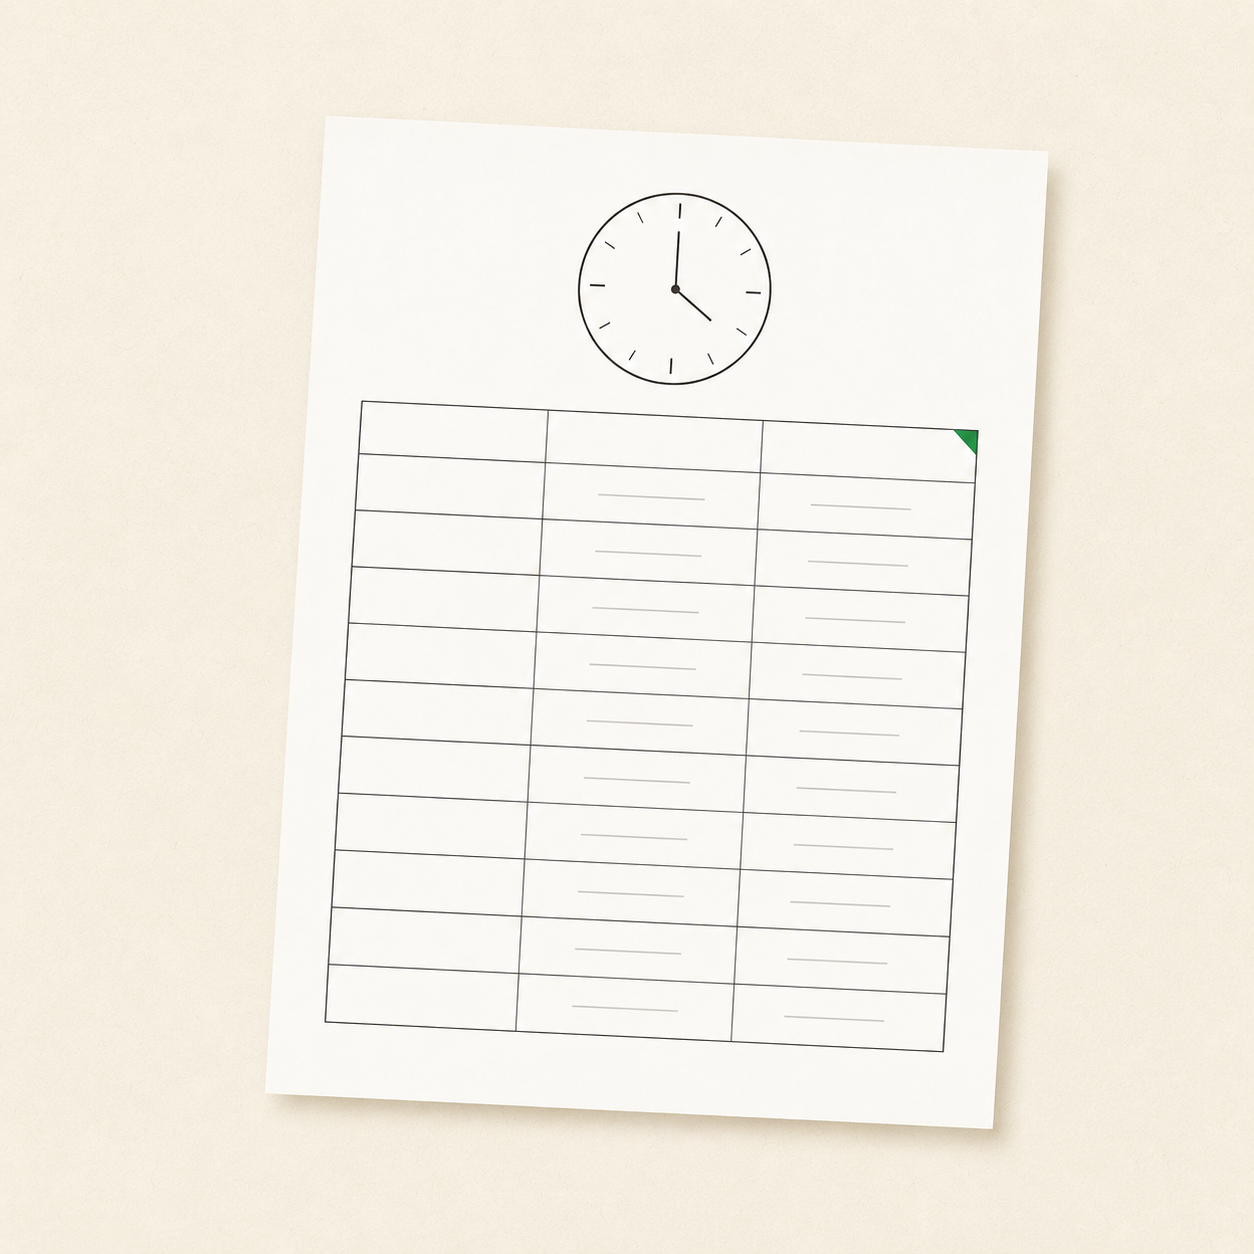
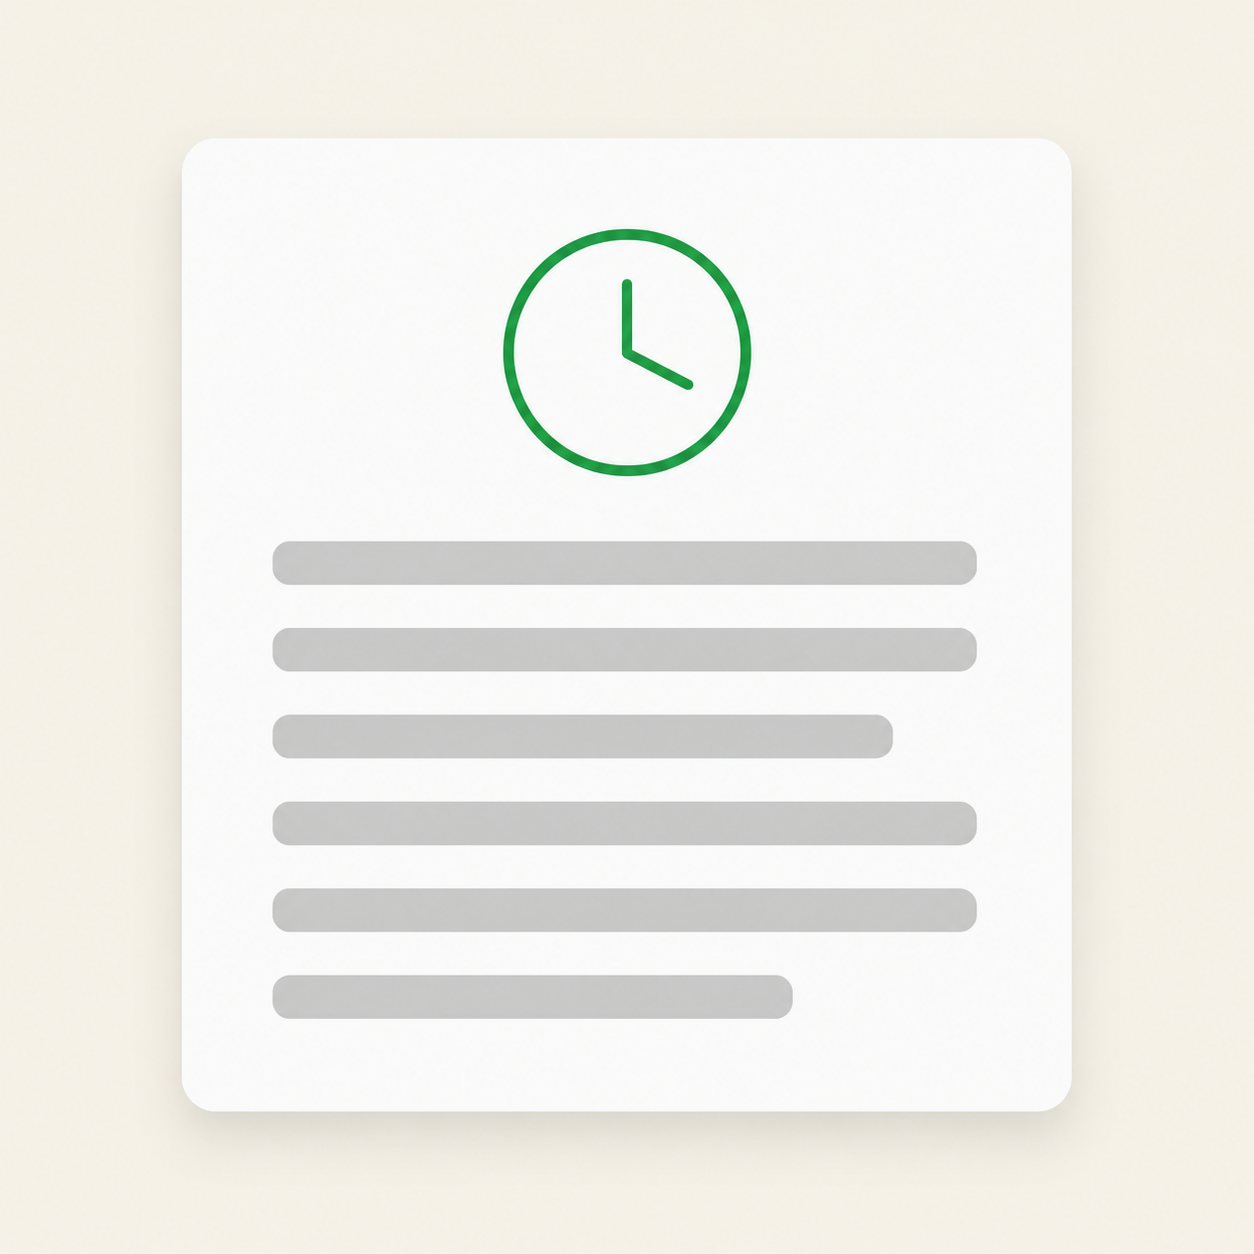
koefarm: 法人LP S1「4枚の書類」をSVGからChatGPT生成イラストへ差し替え
ダサいSVG罫線イラストを、モダン・フラットUIの4枚（クリップボード/時計/円グラフ/帳簿）に置換。
地色がブレるChatGPT生成画像を厳密に揃える正規化スクリプトを追加。

Changed region(s): [[0.1244, 0.0933, 0.8708, 0.933], [0.7464, 0.3421, 0.7775, 0.3732], [0.2799, 0.3421, 0.311, 0.3732]]

diff --git a/src/app/koefarm/business/BusinessLP.tsx b/src/app/koefarm/business/BusinessLP.tsx
@@ -107,57 +107,16 @@ const WORKER_BANDS: { value: WorkersBand; label: string }[] = [
 
 const EMAIL_RE = /^[^\s@]+@[^\s@]+\.[^\s@]+$/;
 
-/* ── SVG：紙ごとの罫線（pathLength=1 で描画量を正規化）── */
-function DocReport() {
-  return (
-    <svg className="kfb-paper-svg" viewBox="0 0 60 80" aria-hidden="true">
-      <line className="kfb-draw" x1="8" y1="26" x2="52" y2="26" pathLength={1} />
-      <line className="kfb-draw" x1="8" y1="38" x2="52" y2="38" pathLength={1} />
-      <line className="kfb-draw" x1="8" y1="50" x2="52" y2="50" pathLength={1} />
-      <line className="kfb-draw" x1="8" y1="62" x2="52" y2="62" pathLength={1} />
-      <line className="kfb-draw" x1="30" y1="26" x2="30" y2="62" pathLength={1} />
-    </svg>
-  );
-}
-function DocAttendance() {
-  return (
-    <svg className="kfb-paper-svg" viewBox="0 0 60 80" aria-hidden="true">
-      <circle className="kfb-draw" cx="30" cy="46" r="18" pathLength={1} />
-      <line className="kfb-draw" x1="30" y1="30" x2="30" y2="34" pathLength={1} />
-      <line className="kfb-draw" x1="30" y1="58" x2="30" y2="62" pathLength={1} />
-      <line className="kfb-draw" x1="14" y1="46" x2="18" y2="46" pathLength={1} />
-      <line className="kfb-draw" x1="42" y1="46" x2="46" y2="46" pathLength={1} />
-      <line className="kfb-draw kfb-draw-green" x1="30" y1="46" x2="30" y2="35" pathLength={1} />
-      <line className="kfb-draw kfb-draw-green" x1="30" y1="46" x2="40" y2="50" pathLength={1} />
-    </svg>
-  );
-}
-function DocLabor() {
-  return (
-    <svg className="kfb-paper-svg" viewBox="0 0 60 80" aria-hidden="true">
-      <circle className="kfb-draw" cx="30" cy="44" r="16" pathLength={1} />
-      <path className="kfb-draw kfb-draw-green" d="M30 44 L30 28 A16 16 0 0 1 44.8 37.9 Z" pathLength={1} />
-      <line className="kfb-draw" x1="10" y1="74" x2="50" y2="74" pathLength={1} />
-    </svg>
-  );
-}
-function DocLedger() {
-  return (
-    <svg className="kfb-paper-svg" viewBox="0 0 60 80" aria-hidden="true">
-      <line className="kfb-draw" x1="10" y1="30" x2="50" y2="30" pathLength={1} />
-      <line className="kfb-draw" x1="30" y1="30" x2="30" y2="66" pathLength={1} />
-      <line className="kfb-draw" x1="14" y1="42" x2="26" y2="42" pathLength={1} />
-      <line className="kfb-draw" x1="34" y1="42" x2="46" y2="42" pathLength={1} />
-      <line className="kfb-draw" x1="14" y1="52" x2="26" y2="52" pathLength={1} />
-    </svg>
-  );
-}
-
+/* ── 紙の絵（ChatGPT生成のフラットUIイラスト・文字は焼き込まず下のトークンで重ねる）──
+   素材と再生成手順は public/koefarm/business/README.md。
+   画像は正方形・背景が --kf-paper(#f5f1e8) と同色なので、地に溶けてカードだけが見える。
+   token の x/y は「カード内1本目のグレーバー」の左端・中心に合わせた画像座標
+   （実測: バー1は x 21.8%〜77.8%、y 43.2%〜46.6%）。CSS 側で translateY(-50%) している。 */
 const PAPERS = [
-  { tag: '1｜作業日報', Doc: DocReport, token: { text: 'トマト', x: '16%', y: '40%' } },
-  { tag: '2｜勤怠', Doc: DocAttendance, token: { text: '3時間', x: '14%', y: '20%' } },
-  { tag: '3｜労務費', Doc: DocLabor, token: { text: 'Aハウス', x: '10%', y: '79%' } },
-  { tag: '4｜仕訳', Doc: DocLedger, token: null },
+  { tag: '1｜作業日報', src: '/koefarm/business/doc-report.png', token: { text: 'トマト', x: '21.8%', y: '44.9%' } },
+  { tag: '2｜勤怠', src: '/koefarm/business/doc-attendance.png', token: { text: '3時間', x: '21.8%', y: '44.9%' } },
+  { tag: '3｜労務費', src: '/koefarm/business/doc-labor.png', token: { text: 'Aハウス', x: '21.8%', y: '44.9%' } },
+  { tag: '4｜仕訳', src: '/koefarm/business/doc-ledger.png', token: null },
 ];
 
 export default function BusinessLP() {
@@ -269,13 +228,6 @@ export default function BusinessLP() {
               { autoAlpha: 0, scale: 0.6, yPercent: 26, duration: 0.2 },
               at
             );
-            // 各紙の罫線が「書かれる」
-            const draws = card.querySelectorAll<SVGElement>('.kfb-draw');
-            tl.from(
-              draws,
-              { strokeDashoffset: 1, duration: 0.16, stagger: 0.015 },
-              at + 0.08
-            );
           });
 
           // 接続線が bubble から各紙へ引かれる
@@ -288,8 +240,9 @@ export default function BusinessLP() {
           // 発話の語が点る（同じ語が複数の紙へ）
           tl.to('.kfb-s1-bubble .kfb-tok', { className: 'kfb-tok kfb-tok-on', duration: 0.1, stagger: 0.08 }, 0.2);
 
-          // 各紙に語が入る
-          tl.from('.kfb-token', { autoAlpha: 0, y: 4, duration: 0.14, stagger: 0.08 }, 0.4);
+          // 各紙に語が入る（.kfb-token は CSS の translateY(-50%) で行に乗せているので
+          // gsap 側で y を動かさない。動かすと gsap が transform を上書きして行からずれる）
+          tl.from('.kfb-token', { autoAlpha: 0, duration: 0.14, stagger: 0.08 }, 0.4);
 
           // 4枚そろってラベル
           tl.from('.kfb-s1-label', { autoAlpha: 0, x: -10, duration: 0.16, stagger: 0.06 }, 0.66);
@@ -459,14 +412,16 @@ export default function BusinessLP() {
           <div className="kfb-s1-canvas">
             {/*
               等倍スケール（canvas aspect 16/10 = viewBox 160x100）で座標を実レイアウトに一致させる。
-              紙: 中心x 16/38.7/61.3/84% → 25.6/61.9/98.1/134.4、上端y = 66% − (19%×4/3÷0.625)/2 = 45.7 → 46
+              紙: 中心x 12.5/37.5/62.5/87.5% → 20/60/100/140。正方形の一辺は 25% = 40。
+              上端 y = 66 − 20 = 46。ただし 46 はまだ画像の余白で、白カードの上端は画像の11%＝
+              46 + 40×0.11 ≒ 50.4。ここまで引かないと不透明な画像に線が食われて浮いて見える。
               吹き出し: 中心(50%,12%) → 始点(80,16)は吹き出し(z-index:3)の背後に隠れる
             */}
             <svg className="kfb-connectors" viewBox="0 0 160 100" aria-hidden="true">
-              <path d="M80 16 C 72 30, 40 34, 25.6 46" pathLength={1} />
-              <path d="M80 16 C 77 30, 64 36, 61.9 46" pathLength={1} />
-              <path d="M80 16 C 83 30, 96 36, 98.1 46" pathLength={1} />
-              <path d="M80 16 C 88 30, 120 34, 134.4 46" pathLength={1} />
+              <path d="M80 16 C 72 32, 34 38, 20 50.4" pathLength={1} />
+              <path d="M80 16 C 77 32, 62 40, 60 50.4" pathLength={1} />
+              <path d="M80 16 C 83 32, 98 40, 100 50.4" pathLength={1} />
+              <path d="M80 16 C 88 32, 126 38, 140 50.4" pathLength={1} />
             </svg>
 
             <div className="kfb-bubble kfb-s1-bubble">
@@ -476,7 +431,8 @@ export default function BusinessLP() {
             {PAPERS.map((p, i) => (
               <div className="kfb-paper" data-i={i} key={i}>
                 <div className="kfb-paper-card">
-                  <p.Doc />
+                  {/* eslint-disable-next-line @next/next/no-img-element */}
+                  <img className="kfb-paper-img" src={p.src} alt="" aria-hidden="true" />
                   <span className="kfb-paper-tag">{p.tag}</span>
                   {p.token && (
                     <span className="kfb-token" style={{ left: p.token.x, top: p.token.y }}>

diff --git a/src/app/koefarm/business/business.css b/src/app/koefarm/business/business.css
@@ -357,61 +357,63 @@
 .kfb-s1-bubble .kfb-tok { transition: color 0.3s var(--kf-ease); }
 .kfb-s1-bubble .kfb-tok-on { color: var(--kf-green-d); font-weight: 700; }
 
-/* 紙（外＝位置決め、内＝アニメ対象） */
+/* 紙（外＝位置決め、内＝アニメ対象）
+   中身は正方形の画像。画像内では白カードが 約15%〜85% を占め、外周は地と同色(#f5f1e8)。
+   なので枠の見た目上の幅は width の約7割になる。隣とバウンディングボックスが少し重なるが、
+   重なるのは地色の余白だけなのでカードにも焼き込み影にも掛からない。 */
 .kfb-paper {
   position: absolute;
-  width: 19%;
-  aspect-ratio: 3 / 4;
+  width: 25%;
+  aspect-ratio: 1 / 1;
   transform: translate(-50%, -50%);
   z-index: 1;
 }
-.kfb-paper[data-i="0"] { left: 16%;  top: 66%; }
-.kfb-paper[data-i="1"] { left: 38.7%; top: 66%; }
-.kfb-paper[data-i="2"] { left: 61.3%; top: 66%; }
-.kfb-paper[data-i="3"] { left: 84%;  top: 66%; }
+/* 25%幅の正方形を 25%間隔で置く＝隣とちょうど接する（重ならない）。
+   画像は不透明なので重ねると隣の焼き込み影を削ってしまう */
+.kfb-paper[data-i="0"] { left: 12.5%; top: 66%; }
+.kfb-paper[data-i="1"] { left: 37.5%; top: 66%; }
+.kfb-paper[data-i="2"] { left: 62.5%; top: 66%; }
+.kfb-paper[data-i="3"] { left: 87.5%; top: 66%; }
 
+/* 枠・影・地色はすべて画像に焼き込み済み。ここでは足さない（二重の影を避ける） */
 .kfb-paper-card {
   position: relative;
   width: 100%;
   height: 100%;
-  background: var(--kf-sheet);
-  border: 1px solid var(--kf-soil-line);
-  border-radius: 3px;
-  box-shadow: 4px 7px 16px -8px rgba(60, 44, 28, 0.4);
-  overflow: hidden;
 }
-.kfb-paper-svg {
-  position: absolute;
-  inset: 0;
+.kfb-paper-img {
+  display: block;
   width: 100%;
   height: 100%;
+  object-fit: contain;
+  user-select: none;
+  -webkit-user-drag: none;
 }
-.kfb-paper-svg .kfb-draw {
-  fill: none;
-  stroke: var(--kf-soil);
-  stroke-width: 1;
-  stroke-linecap: round;
-  stroke-linejoin: round;
-  stroke-dasharray: 1;
-  stroke-dashoffset: 0;
-}
-.kfb-paper-svg .kfb-draw-green { stroke: var(--kf-green); }
+/* 以下 % は「正方形画像の座標」基準。カードは 約15%〜85%（縦は 11%〜89%）。
+   見出しはカードの外（下の余白）に置く。カード内の上部はアイコンで埋まっている */
 .kfb-paper-tag {
   position: absolute;
-  left: 8%;
-  top: 6%;
+  left: 50%;
+  top: 94%;
+  transform: translateX(-50%);
   font-size: clamp(8px, 1.7vw, 11px);
+  line-height: 1;
   font-weight: 700;
   letter-spacing: 0.02em;
+  white-space: nowrap;
   color: var(--kf-ink);
 }
+/* カード内1本目のグレーバーに重なって「その欄が埋まった」ように見せるため、
+   下地を透かさない不透明の淡緑にする */
 .kfb-token {
   position: absolute;
+  transform: translateY(-50%);
   padding: 1px 5px;
   font-size: clamp(7px, 1.5vw, 10px);
+  line-height: 1.5;
   font-weight: 700;
   color: var(--kf-green-d);
-  background: rgba(46, 139, 78, 0.12);
+  background: #e4f1e9;
   border-radius: 3px;
   white-space: nowrap;
 }
@@ -450,11 +452,12 @@
   .kfb-s1-canvas { aspect-ratio: 4 / 5; }
   .kfb-connectors { display: none; }
   .kfb-s1-bubble { top: 9%; max-width: 82%; white-space: normal; text-align: center; }
-  .kfb-paper { width: 40%; }
-  .kfb-paper[data-i="0"] { left: 27%; top: 42%; }
-  .kfb-paper[data-i="1"] { left: 73%; top: 42%; }
-  .kfb-paper[data-i="2"] { left: 27%; top: 76%; }
-  .kfb-paper[data-i="3"] { left: 73%; top: 76%; }
+  /* 幅44%の正方形＝canvas高さの35.2%。行間隔40%を空けて上下も重ねない */
+  .kfb-paper { width: 44%; }
+  .kfb-paper[data-i="0"] { left: 27%; top: 40%; }
+  .kfb-paper[data-i="1"] { left: 73%; top: 40%; }
+  .kfb-paper[data-i="2"] { left: 27%; top: 80%; }
+  .kfb-paper[data-i="3"] { left: 73%; top: 80%; }
   .kfb-paper-tag { font-size: 11px; }
   .kfb-token { font-size: 9px; }
 }

diff --git a/public/koefarm/business/README.md b/public/koefarm/business/README.md
@@ -1,45 +1,79 @@
 # 法人LP（/koefarm/business/）の画像素材
 
-ChatGPT の画像生成でつくったイラスト素材。**文字は画像に焼き込まない**（日本語が崩れるため）。
-ラベルや数値はLP側のHTMLで重ねる。
+S1「このひと言が、4枚の書類になる。」の4枚。ChatGPT の画像生成でつくった
+**モダン・フラットUI**のイラスト。丸角の白カード＋深緑(#2e8b4e)の細い線画アイコン＋
+グレーの角丸プレースホルダーバー、という同じ型でアイコンだけを差し替えてある。
 
-| ファイル | 用途 | 状態 |
+**文字は画像に焼き込まない**（日本語が崩れるため）。ラベル（`1｜作業日報` など）と
+語トークン（`トマト` など）は LP 側の HTML で重ねている。
+
+| ファイル | 用途 | アイコン |
 |---|---|---|
-| `doc-report.png` | S1「4枚の書類」1枚目＝作業日報 | 生成済み（1254×1254） |
-| `doc-attendance.png` | S1 2枚目＝勤怠 | 生成済み（1254×1254） |
-| `doc-labor.png` | S1 3枚目＝労務費 | **未生成** |
-| `doc-ledger.png` | S1 4枚目＝仕訳 | **未生成** |
+| `doc-report.png` | S1 1枚目＝作業日報 | クリップボード＋チェック |
+| `doc-attendance.png` | S1 2枚目＝勤怠 | アナログ時計 |
+| `doc-labor.png` | S1 3枚目＝労務費 | 円グラフ（1扇形だけ塗り） |
+| `doc-ledger.png` | S1 4枚目＝仕訳 | 左右2ページに開いた帳簿 |
+
+いずれも 1254×1254 PNG。
+
+## LP 側が前提にしている画像内の座標
+
+`business.css` / `BusinessLP.tsx` はこの実測値に合わせて要素を重ねている。
+**作り直したら必ず測り直すこと**（ずれるとラベルやトークンが行から外れる）。
+
+- 地色 = `--kf-paper` #f5f1e8（後述の正規化スクリプトで厳密に合わせる）
+- 白カード = 画像の 約15%〜85%（横）／11%〜89%（縦）
+- グレーバー1本目 = x 21.8%〜77.8%、y 43.2%〜46.6%（中心 44.9%）
 
 ## 再生成の手順
 
-1. Chrome の ChatGPT ログイン済みセッションで https://chatgpt.com/images を開く
-2. 下記テンプレートの「題材」と「上部の図」だけ差し替えて投入する
-3. 生成完了（**1024px以上の画像が出るまで待つ**。途中は512pxのプレビューJPEGが出るので掴まないこと）
-4. 保存はページ上のJSで行うのが確実（ライトボックスにダウンロードボタンが出ない場合がある）:
+1. Chrome の ChatGPT ログイン済みセッションを開く
+2. 下のプロンプトの「アイコン」だけ差し替えて4回投入する。
+   2枚目以降は先頭に「同じシリーズの N 枚目。前の絵と完全に同じスタイル・同じカードの
+   大きさと位置・同じ影・同じ背景色・同じバーの太さと本数で、アイコンだけ差し替えて」
+   を付ける（付けないと構図が毎回変わる）
+3. 生成完了を待つ（**1024px以上の画像が出るまで待つ**。途中は512pxのプレビューが出る）
+4. 保存はページ上のJSで（ライトボックスにダウンロードボタンが出ないことがある）:
 
 ```js
-const img = Array.from(document.querySelectorAll('img'))
-  .filter(i => i.naturalWidth >= 1024)
-  .sort((a,b) => b.naturalWidth - a.naturalWidth)[0];
+const imgs = Array.from(document.querySelectorAll('img')).filter(i => i.naturalWidth >= 1024);
+const img = imgs[imgs.length - 1];           // 最後＝最新。naturalWidth 順で選ぶと古い絵を掴む
 const blob = await (await fetch(img.src)).blob();
 const a = document.createElement('a');
 a.href = URL.createObjectURL(blob); a.download = 'doc-xxx.png';
 document.body.appendChild(a); a.click(); a.remove();
 ```
 
-## プロンプトのテンプレート（この型で狙いどおりの絵が出た）
+5. `public/koefarm/business/` に置いたら、地色をそろえる:
 
-> 日本の農業向けWebサイトに載せる、上質なエディトリアルイラスト。題材は「**〈題材〉**」。
-> 生成り色の和紙(#f5f1e8)の背景に、白い紙(#fcfbf7)が1枚、わずかに傾いて置かれ、柔らかい落ち影がある。
-> 紙の上部には**〈上部の図〉**。その下には行が並ぶ表があり、各行にはゆるやかなグレーの横線が引かれて
-> 「手書きで埋まっている」様子を表す。**実際の文字・数字は一切描かない**。
-> アクセントに深緑(#2e8b4e)を少しだけ。色は墨黒・生成り・深緑の3色のみ。
-> 静かで余白の多い和モダンな作風。人物なし。写真風ではなくフラットなイラスト。正方形。
+```
+node scripts/normalize-koefarm-docs.mjs
+```
 
-- 労務費 → 上部の図＝「シンプルな円グラフ。3〜4分割され、うち一つの扇形だけが深緑で塗られている」
-- 仕訳 → 上部の図＝「左右2列に分かれた複式簿記の帳簿。中央に縦の罫線」
+## プロンプト（この型で狙いどおりの絵が出た）
 
-## 注意
+> 日本の農業向けB2B SaaSのランディングページに載せる、モダンでクリーンなフラットベクター
+> イラストを1枚生成してください。丸い角の白いカード(#ffffff)が正面から1枚置かれ、ごく薄い
+> やわらかい落ち影がある。背景は淡い生成り色(#f5f1e8)の無地。カードの上部中央に
+> 「**〈アイコン〉**」の細い線画アイコンを深緑(#2e8b4e)で描く。その下に、情報の行を表す
+> グレーの角丸バー(プレースホルダー)を規則的に数本並べる。**実際の文字・数字・記号は一切
+> 描かない**。色は白・淡い生成り・墨グレー・深緑の4色のみ。フラットで余白が多く、上質で
+> ミニマルなSaaSのUIカードのような作風。人物なし、写真風ではなくフラットなベクター
+> イラスト。正方形。
 
+〈アイコン〉に入れた文言:
+
+- 作業日報 → 「クリップボードにチェックマーク」
+- 勤怠 → 「円形のアナログ時計（短針と長針があり、文字盤の目盛りは描かない）」
+- 労務費 → 「円グラフ（真円が3〜4つの扇形に分かれ、そのうち1つの扇形だけが深緑で塗りつぶされ、残りは深緑の細い線だけ）」
+- 仕訳 → 「左右2ページに開いた帳簿を正面から見た細い線画アイコン。中央に縦の綴じ線があり、左右対称に2列に分かれている」
+
+## 注意（踏んだ罠）
+
+- 背景色を #f5f1e8 と指定しても、実際には 248〜251 あたりでブレる。しかも1枚ごとに違う。
+  そのまま並べると LP 上で「四角い色ムラ」に見えるので `normalize-koefarm-docs.mjs` を必ず通す
 - ChatGPTの画面で **Escape を押すとチャットから離脱する**（入力中のプロンプトが消える）
 - 「文字を入れない」指定を外すと日本語が崩れた絵が出る。必ず入れる
+- 同じチャットで4枚続けてJSダウンロードすると、**Chrome が「複数の自動ダウンロード」を
+  ブロックする**（無言で失敗し ~/Downloads に落ちない）。アドレスバーのブロック表示から
+  chatgpt.com に許可を出す
